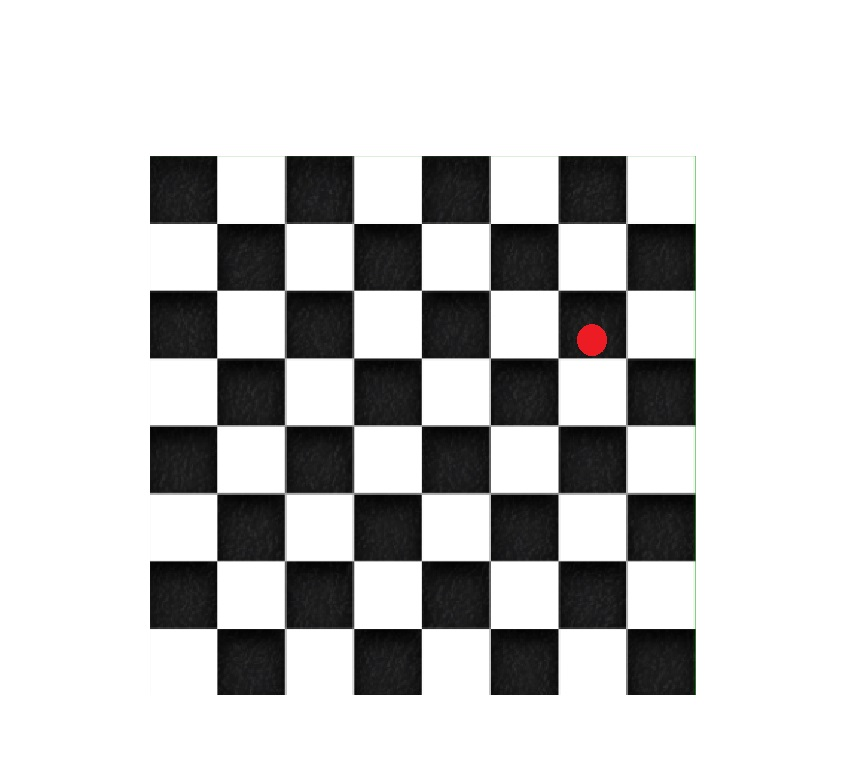
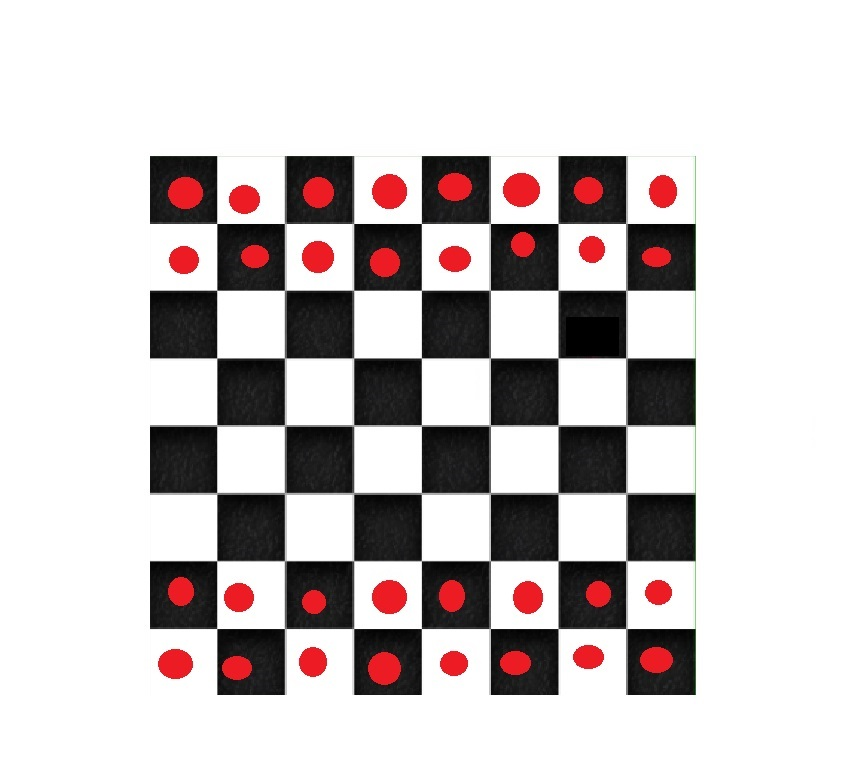
move detection and vboard

diff --git a/chesseye.py b/chesseye.py
@@ -1,0 +1,219 @@
+import subprocess
+import cv2
+import numpy as np
+import time
+import chess
+
+PATTERN_SIZE = (7, 7)
+RED_LOWER_COLOR = np.array([0, 70, 50])
+RED_UPPER_COLOR = np.array([10, 255, 255])
+INIT_BOARD_SETUP = ['PPPPPPPP', 'PPPPPPPP', '........', '........', '........', '........', 'PPPPPPPP', 'PPPPPPPP']
+
+is_board_setup = None
+
+def find_squares(corners, pattern_size, image):
+
+    # Get the bounding rectangle around the chessboard
+    x_min = int(np.min(corners[:, :, 0]))
+    y_min = int(np.min(corners[:, :, 1]))
+    x_max = int(np.max(corners[:, :, 0]))
+    y_max = int(np.max(corners[:, :, 1]))
+
+    # Calculate the width and height of each square
+    # subtract 1 because 7 squares will have 6 gaps
+    square_width = (x_max - x_min) / (pattern_size[0] - 1)
+    square_height = (y_max - y_min) / (pattern_size[1] - 1)
+
+    # Adjust the bounding rectangle to include the outer squares
+    x_min -= int(square_width)
+    y_min -= int(square_height)
+    x_max += int(square_width)
+    y_max += int(square_height)
+
+    # Check that the adjusted coordinates are within the image boundaries
+    x_min = max(x_min, 0)
+    y_min = max(y_min, 0)
+    x_max = min(x_max, image.shape[1])
+    y_max = min(y_max, image.shape[0])
+
+    # Draw the adjusted bounding rectangle
+    # cv2.rectangle(image, (x_min, y_min), (x_max, y_max), (0, 0, 0), 2)
+
+    # Store the individual square positions
+    square_positions = []
+    for i in range(8):
+        for j in range(8):
+            top_left = (x_min + int(square_width * j),
+                        y_min + int(square_height * i))
+            bottom_right = (x_min + int(square_width * (j + 1)),
+                            y_min + int(square_height * (i + 1)))
+            square_positions.append((top_left, bottom_right))
+
+            # Draw the individual squares
+            # cv2.rectangle(image, top_left, bottom_right, (0, 0, 0), 1)
+            # Draw the traditional chess coordinates
+            # 'a' is ASCII 97 and '1' is ASCII 49, hence using them for respective axes
+            # coord = chr(97 + j) + str(8 - i)
+            # cv2.putText(image, coord, (top_left[0] + 5, top_left[1] + 25), cv2.FONT_HERSHEY_SIMPLEX,
+            #             0.7, (0, 0, 0), 2)
+
+    return square_positions
+
+
+def get_chessboard():
+    # Load the chessboard image
+    image = cv2.imread("chessboard.jpg")
+
+    # Convert the image to grayscale
+    gray = cv2.cvtColor(image, cv2.COLOR_BGR2GRAY)
+
+    # Define the chessboard pattern size
+
+    # Find the chessboard corners
+    ret, corners = cv2.findChessboardCornersSB(
+        gray, PATTERN_SIZE, flags=cv2.CALIB_CB_EXHAUSTIVE)
+
+    return ret, corners, image
+
+def detect_pieces(hsv):
+    # Create an empty 8x8 board
+    virtual_board = [['.' for _ in range(8)] for _ in range(8)]
+
+    # Get a binary mask where red pieces are white and everything else is black
+    piece_mask = cv2.inRange(hsv, RED_LOWER_COLOR, RED_UPPER_COLOR)
+
+    # Iterate over each square on the chessboard image
+    for i in range(8):
+        for j in range(8):
+            top_left, bottom_right = square_positions[i * 8 + j]
+
+            # Extract the square's region from the binary mask
+            square_mask = piece_mask[top_left[1]:bottom_right[1], top_left[0]:bottom_right[0]]
+
+            # If the square contains any white pixels, mark it as containing a red piece
+            if np.any(square_mask):
+                virtual_board[i][j] = 'P'
+
+    return virtual_board
+
+def print_board(board):
+    for row in board:
+        print(' '.join(row))
+
+
+def has_board_been_setup(vboard, is_board_setup):
+    if is_board_setup is None:
+        vboard_str = [[str(piece) for piece in row] for row in vboard]
+        board_init_setup_str = [[str(piece) for piece in row] for row in INIT_BOARD_SETUP]
+
+        if  vboard_str == board_init_setup_str:
+             return True
+            
+def make_move(vboard, cached_board, lib_board):
+    vboard_str = [[str(piece) for piece in row] for row in vboard]
+    cached_str = [[str(piece) for piece in row] for row in cached_board]
+
+    if vboard_str != cached_str:
+        print("A change has occurred")
+        changes = 0
+
+        for j in range(8):
+            for i in range(8):
+                if cached_str[j][i] != vboard_str[j][i]:
+                    changes += 1  # Increment changes if a difference is detected
+
+        print("Total changes: ", changes)
+        
+        first_change = None
+        second_change = None
+        
+        if changes == 2:
+            for i in range(8):
+                for j in range(8):
+                    if first_change is None and cached_str[i][j] != vboard_str[i][j]:
+                        first_change = chess.square(j, 7-i) # 7-i because the chess board's rank is from 8 to 1, top to bottom
+                    elif second_change is None and cached_str[i][j] != vboard_str[i][j]:
+                        second_change = chess.square(j, 7-i)
+                    else:
+                        continue
+
+                            
+        try:
+            first_possible_move = chess.Move.from_uci(chess.square_name(first_change) + chess.square_name(second_change))
+            second_possible_move = chess.Move.from_uci(chess.square_name(second_change) + chess.square_name(first_change))
+        except Exception:
+            print("Illegal move, ensure when capturing to lift both pieces")
+            print("Put pieces back!")
+            print_board (cached_board)
+            return cached_board
+        
+
+        print(first_change)
+        print(second_change)
+
+        if lib_board.is_legal(first_possible_move):
+            lib_board.push(first_possible_move)
+            print("A piece moved from " + chess.square_name(first_change) + " to " + chess.square_name(second_change))
+            # Change the piece at the destination square
+            vboard[7 - chess.square_rank(second_change)][chess.square_file(second_change)] = 'P'  # chess.square_rank() and chess.square_file() gives rank and file of a square respectively.
+            return vboard.copy()  # Update cached board
+        elif lib_board.is_legal(second_possible_move):
+            lib_board.push(second_possible_move)
+            print("A piece moved from " + chess.square_name(second_change) + " to " + chess.square_name(first_change))
+            # Change the piece at the destination square
+            vboard[7 - chess.square_rank(first_change)][chess.square_file(first_change)] = 'P'
+            return vboard.copy()  # Update cached board
+        else:
+            print("Illegal moves, put pieces back!")
+            print_board (cached_board)
+
+    return cached_board
+
+
+def board_to_fen(board):
+    # Use join function to concatenate list elements into string
+    fen = '/'.join(board)
+    # Add the additional FEN fields
+    fen += " w KQkq - 0 1"
+    return fen
+
+
+board = chess.Board()
+
+cached_board = None
+
+while True:
+    ret, corners, image = get_chessboard()
+
+    if ret:
+        square_positions = find_squares(corners, PATTERN_SIZE, image)
+     
+        # cv2.imshow("Detected Chessboard", image)
+        # cv2.waitKey(0)
+        # cv2.destroyAllWindows()
+
+        # Convert the image to HSV for color detection
+        hsv = cv2.cvtColor(image, cv2.COLOR_BGR2HSV)
+
+        vboard = detect_pieces(hsv)        
+
+        #init setup
+        if cached_board is None:
+            is_board_setup = has_board_been_setup(vboard, is_board_setup)
+            if is_board_setup:
+                cached_board = vboard
+                print("Board has been setup")
+            else:
+                print("Setup the board")
+                print_board(vboard)
+       
+        
+        if is_board_setup:
+            cached_board = make_move(vboard, cached_board, board)
+
+        # print(board)
+
+    else:
+        print("Chessboard not found.")
+
+    time.sleep(1)
